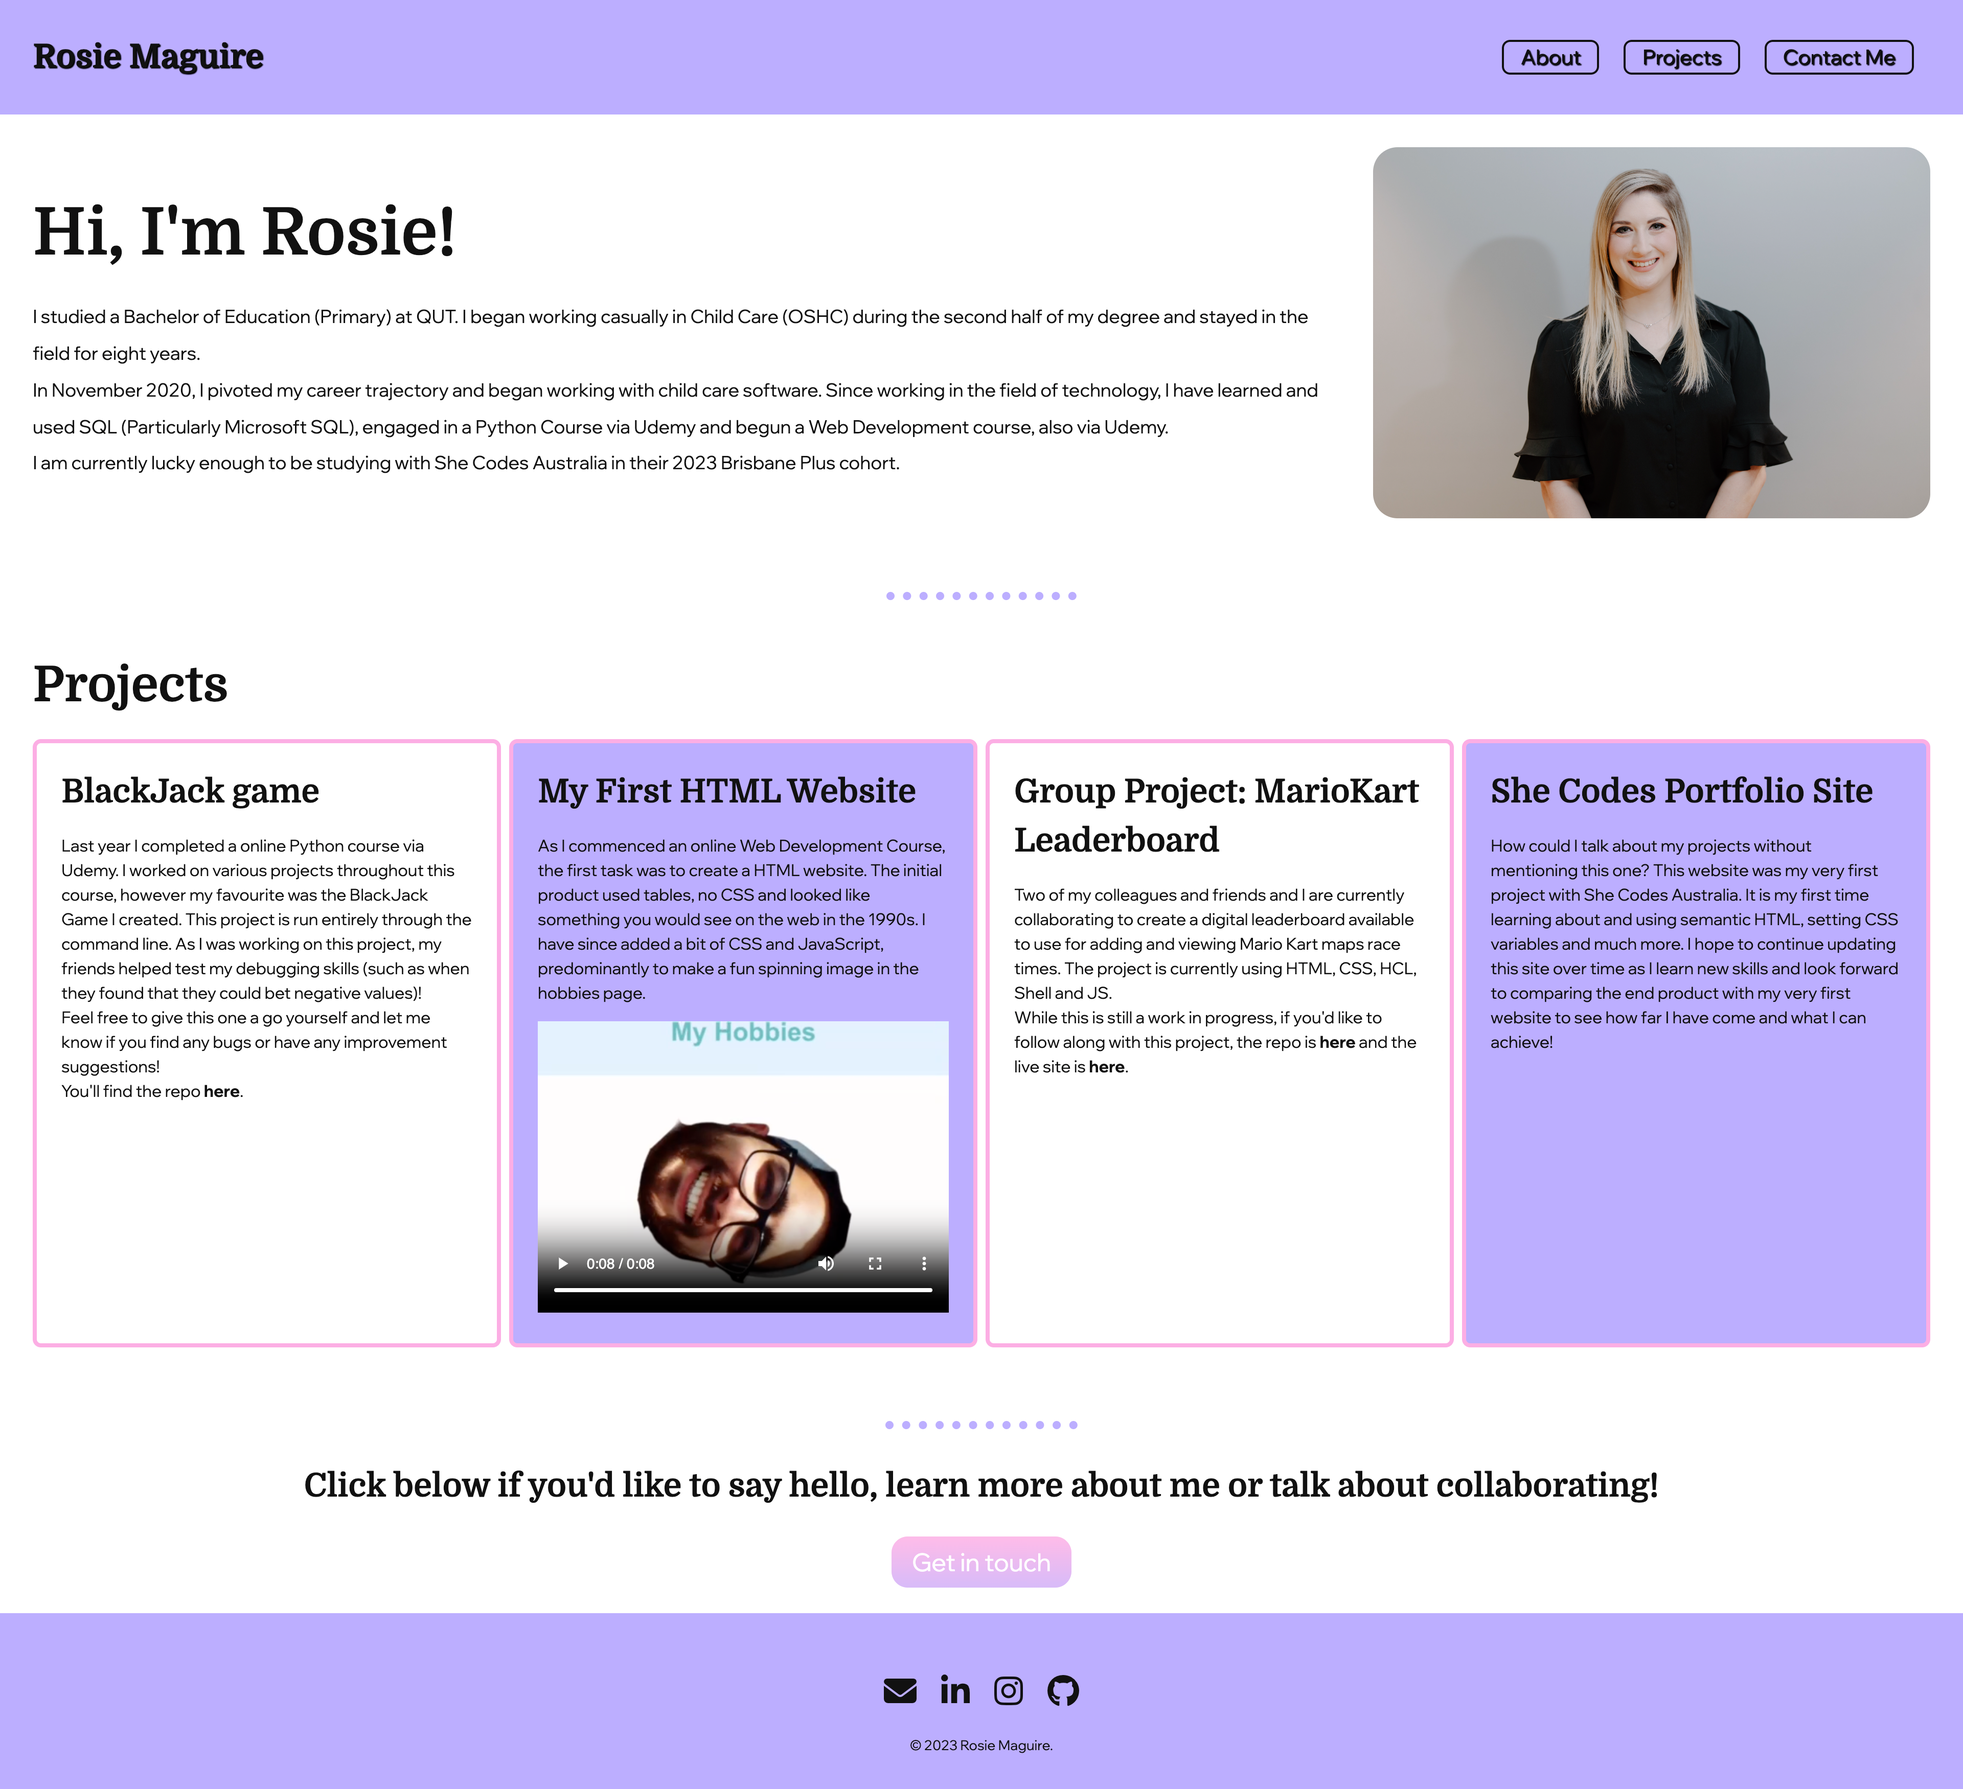
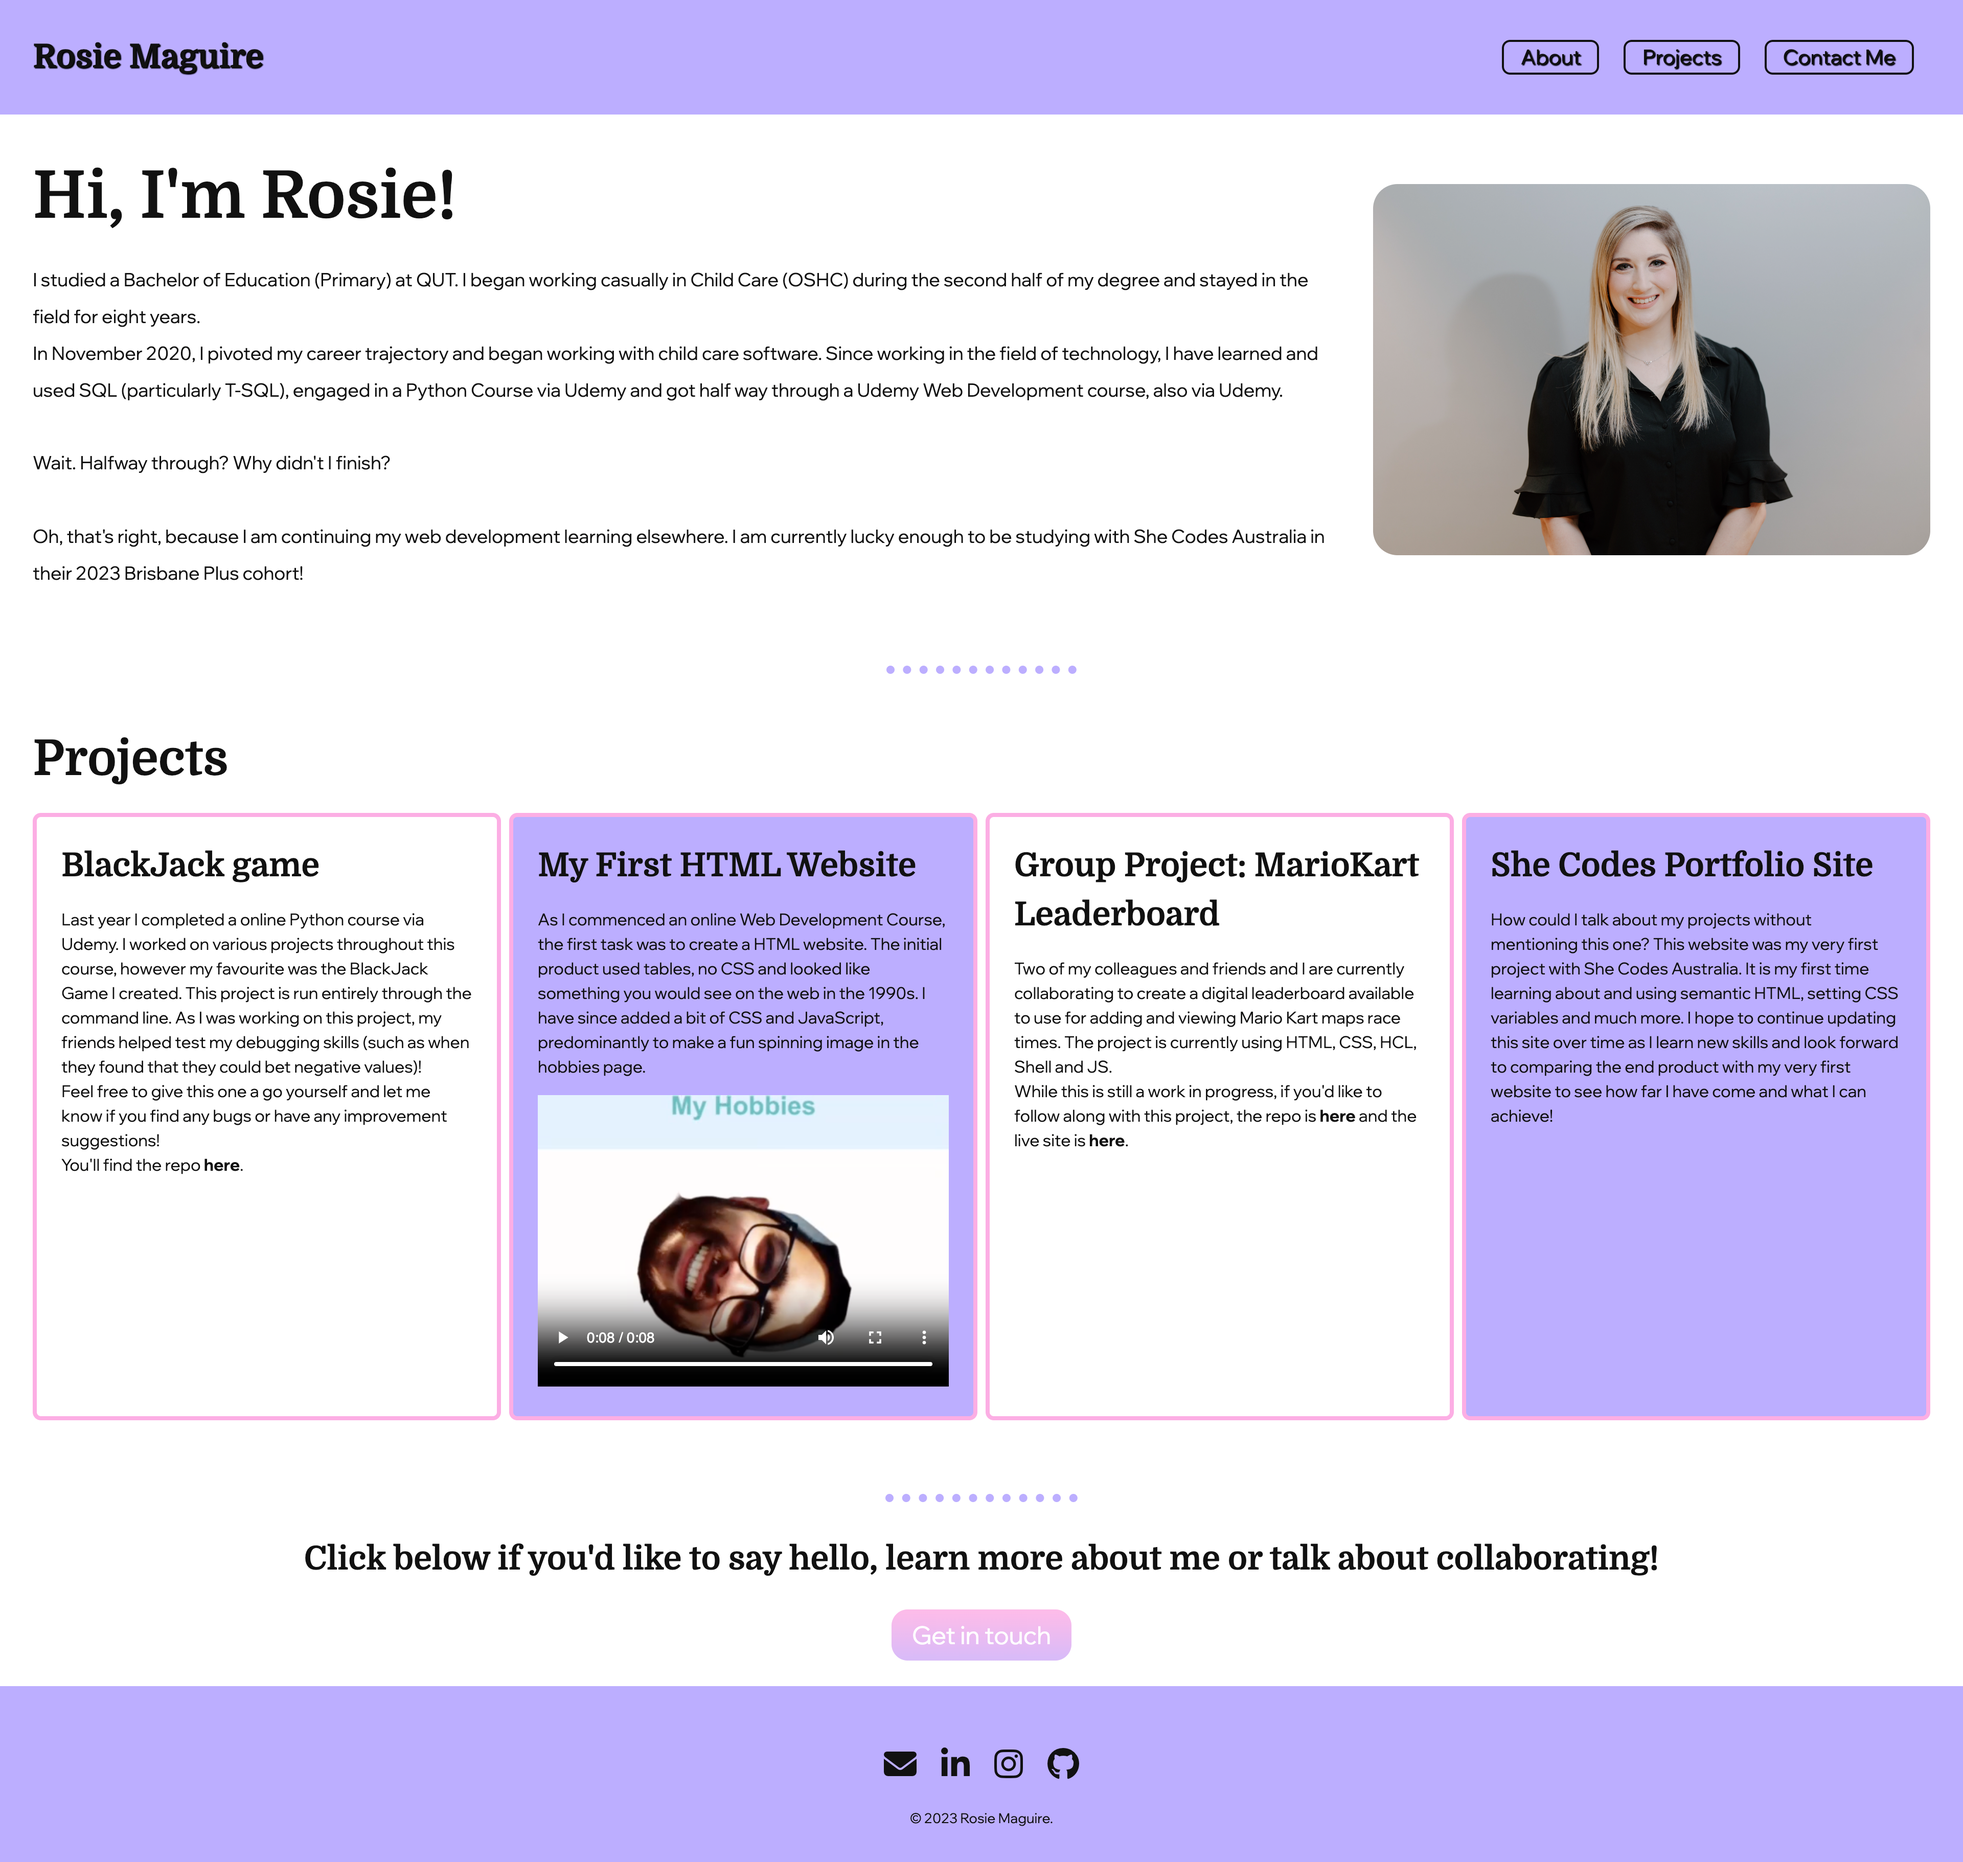
Modifying about me written content

diff --git a/index.html b/index.html
@@ -80,22 +80,29 @@
     <main>
       <section id="about" class="space-util flex mob-view">
         <article class="my-info">
-          <h1 >Hi, I'm Rosie!</h1>
+          <h1>Hi, I'm Rosie!</h1>
           <p>
-            I studied a Bachelor of Education (Primary) at QUT. I
-            began working casually in Child Care (OSHC) during the second half
-            of my degree and stayed in the field for eight years. <br>In November
-            2020, I pivoted my career trajectory and began working with child
-            care software. Since working in the field of technology, I have
-            learned and used SQL (Particularly Microsoft SQL), engaged in a
-            Python Course via Udemy and begun a Web Development course, also via
-            Udemy. <br>I am currently lucky enough to be studying with She Codes
-            Australia in their 2023 Brisbane Plus cohort.
+            I studied a Bachelor of Education (Primary) at QUT. I began working
+            casually in Child Care (OSHC) during the second half of my degree
+            and stayed in the field for eight years. <br />In November 2020, I
+            pivoted my career trajectory and began working with child care
+            software. Since working in the field of technology, I have learned
+            and used SQL (particularly T-SQL), engaged in a Python Course via
+            Udemy and got half way through a Udemy Web Development course, also
+            via Udemy. <br />
+            <br />
+            Wait. Halfway through? Why didn't I finish? <br /><br />Oh, that's
+            right, because I am continuing my web development learning
+            elsewhere. I am currently lucky enough to be studying with She Codes
+            Australia in their 2023 Brisbane Plus cohort!
           </p>
         </article>
         <figure>
-        <img src="images/SheCodes HD May 2023-40.jpg" alt="profile picture" class="profile-pic">
-      </figure>
+          <img
+            src="images/SheCodes HD May 2023-40.jpg"
+            alt="profile picture"
+            class="profile-pic" />
+        </figure>
       </section>
 
       <section id="projects" class="space-util">
